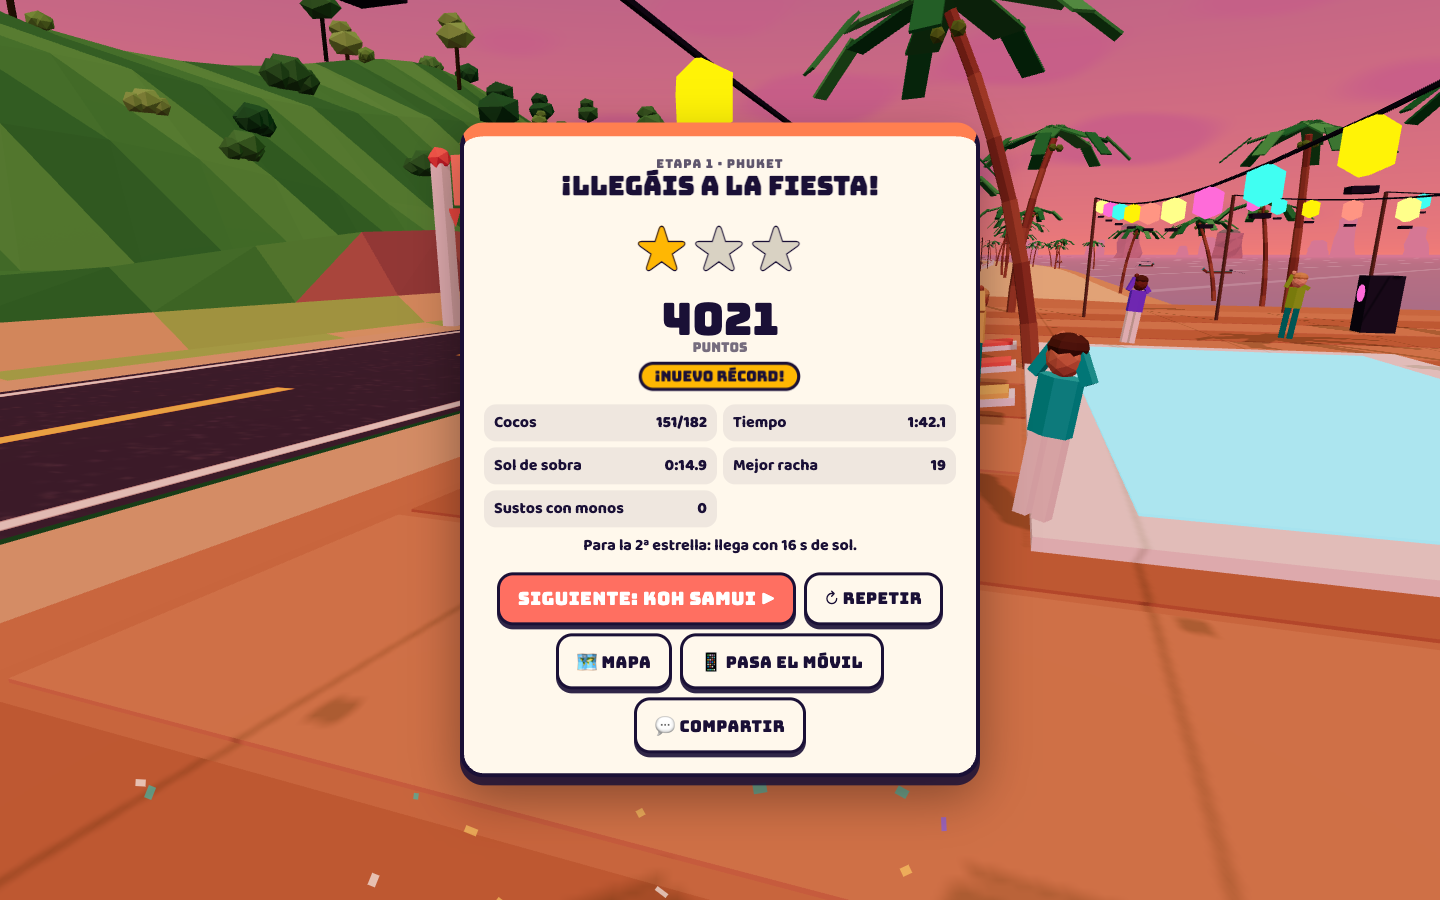
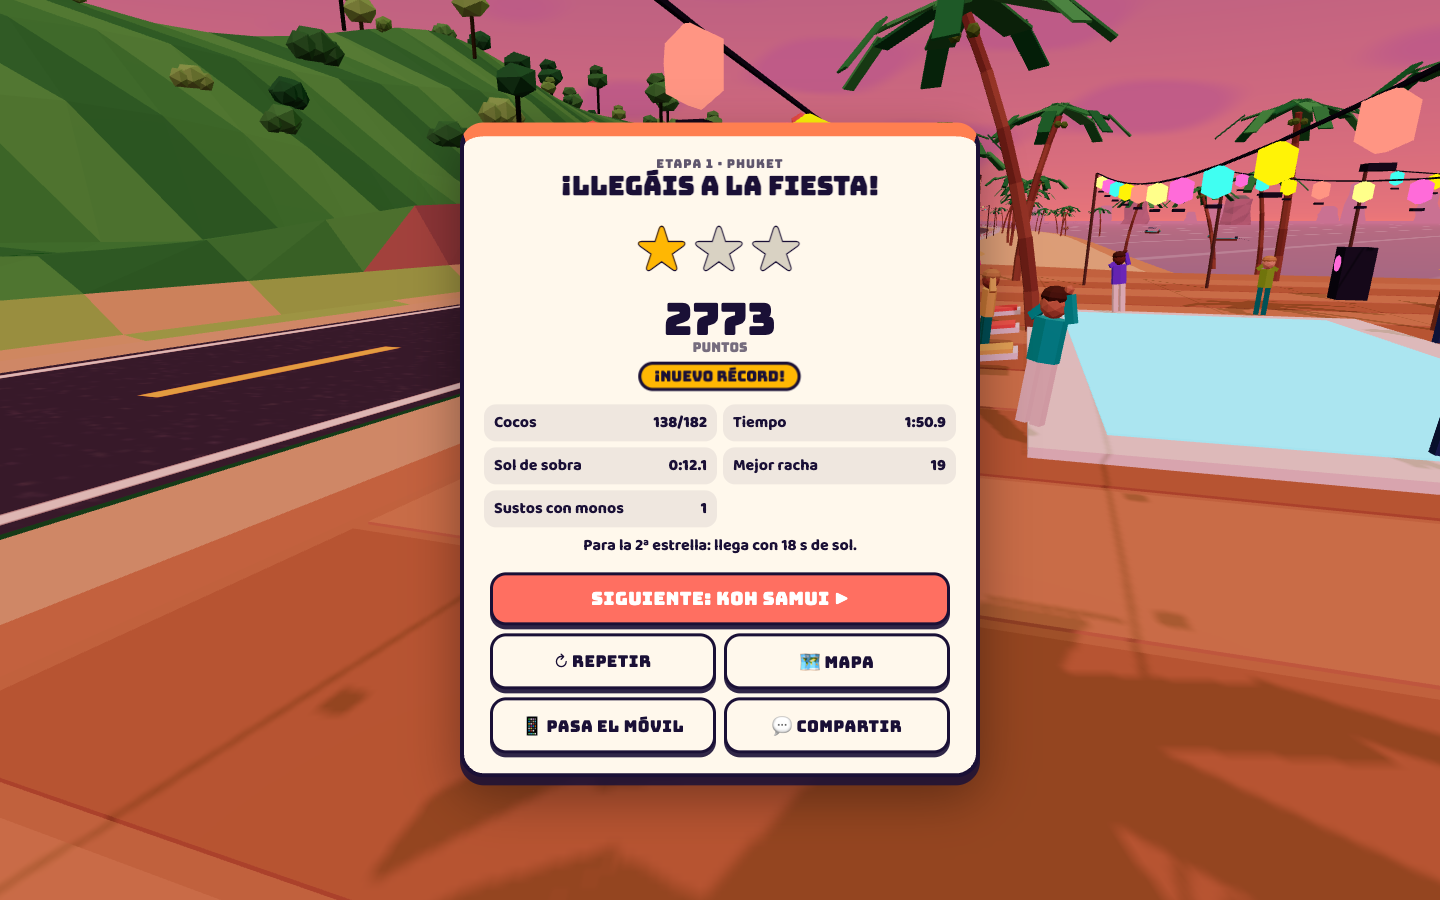
Phuket ronda 2: racha limpia, sombra de contacto, aro de turbo sin porcentaje, HUD escalado y mercado nocturno para enhebrar

diff --git a/src/stages/phuket/index.js b/src/stages/phuket/index.js
@@ -12,8 +12,8 @@ import { makeSfx } from './sonidos.js';
 import { makeCapa } from './capa.js';
 
 const LG = 3200;           // metros de salida a meta
-const TIME_LIMIT = 120;    // segundos de sol
-const T_MARGEN = 16;       // margen para la 2ª estrella (y la 3ª con cocos)
+const TIME_LIMIT = 123;    // segundos de sol
+const T_MARGEN = 18;       // margen para la 2ª estrella (y la 3ª con cocos)
 const COCO_3 = 0.65;       // fracción de cocos para la 3ª estrella
 const MK0 = S0 + 0.775 * LG, MK_GATES = 7, MK_GAP = 22, MK1 = MK0 + MK_GATES * MK_GAP; // mercado nocturno
 const V_BASE = 26, V_TURBO = 37, V_FRENO = 7, V_ARENA = 16;
@@ -364,7 +364,7 @@ export default {
       const steer = clamp(inp.x, -1, 1);
       const braking = inp.down('brake') || inp.y < -0.4;
       const wantBoost = inp.down('boost') && !braking;
-      if (!wantBoost) st.boostLock = false;
+      if (!wantBoost || st.fuel > 0.35) st.boostLock = false; // si lo mantienes pulsado, vuelve solo al recargarse
       const canBoost = wantBoost && !st.boostLock && st.fuel > 0.01;
       if (canBoost && !st.boosting) { sfx.turbo(); audio.sfx('boost');  }
       st.boosting = canBoost;

diff --git a/src/stages/phuket/capa.js b/src/stages/phuket/capa.js
@@ -72,7 +72,7 @@ export function makeCapa(ctx, camera) {
     const w = suma.e.offsetWidth;
     let x = sp.x + Math.min(110, innerWidth * 0.2);
     if (x + w > innerWidth - 10) x = sp.x - Math.min(110, innerWidth * 0.2) - w;
-    suma.e.style.left = x + 'px'; suma.e.style.top = Math.max(150, sp.y - 70) + 'px';
+    suma.e.style.left = x + 'px'; suma.e.style.top = Math.max(150, sp.y + 30) + 'px';
     if (suma.t > 1.3) { suma.e.classList.add('sale'); }
     if (suma.t > 1.7) { suma.e.remove(); suma = null; }
   }
